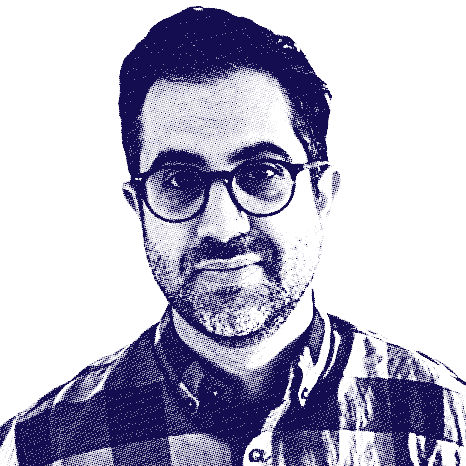
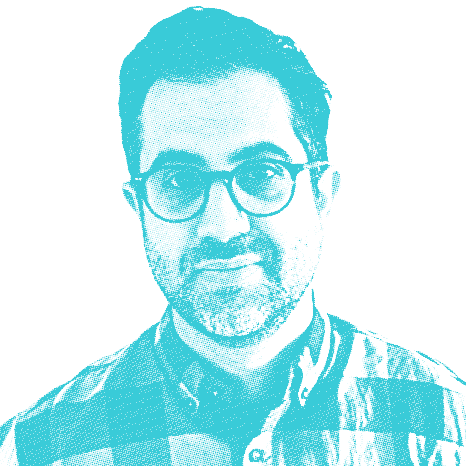
color

diff --git a/css/style-ga.css b/css/style-ga.css
@@ -6,10 +6,22 @@
     font-style: normal;
   }
   :root{
-    --ga_lapis:#336699;
-    --ga_turquoise: #35E9DD;
-    --ga_federal: #140D4F;
-    --ga_carolina:#86BBD8;
+    /*--ga_lapis:#0A8754;
+    --ga_federal: #140D4F;*/
+
+    --ga_rougeCorail:#FF595A;
+    --ga_bleuProfond: #001233;
+    --ga_turquoise: #39cbd8;
+    --ga_cassis: #1D1842;
+    --ga_sapin:#019b56;
+  
+
+
+    /*--ga_turquoise: #3D9BA3;*/
+
+
+    --ga_caro:#86BBD8;
+    --ga_charcoal: #2F4858;
 
     /*--ga_greenLight:#48aef3;*/
     --ga_greenLight:#EDFDFC;
@@ -26,10 +38,10 @@
     font-family: "Lato", sans-serif;
     font-size: 16px;
     line-height: 26px;
-    color: var(--ga_federal);
+    color: var(--ga_turquoise);
     font-weight: 300;
     letter-spacing: .05em;
-    background-color: var(--ga_greenLight);
+    background-color: #001233;
   }
 
   .container{
@@ -40,7 +52,7 @@
   
   ::-webkit-selection {
     color: var(--ga_white);
-    background: var(--ga_greenLight);
+    background: #EDFFEB;
   }
   
   ::-moz-selection {
@@ -97,6 +109,7 @@
     /* --------------HEADER-------------------*/
 
   .ga-intro {
+    font-family: 'Passion One', cursive;
     font-weight: bolder !important;
     font-size: 40px;
     line-height: 27px;
@@ -104,12 +117,12 @@
     margin-top: 1em;
     position: relative;
     padding-bottom: 30px;
-    color: var(--ga_federal);
+    color: var(--ga_sapin);
   }
 
   .ga-half {
     width: 100%;
-    background: var(--ga_greenLight);
+    background: var(--ga_bleuProfond);
   }
 
   #ga_img_id{
@@ -123,7 +136,7 @@
   }
 
   #ga_header {
-      margin-top: 0em;
+      margin-top: 3em;
       margin-bottom: 0em;
       /*background-color:var(--ga_federal);*/
   }
@@ -168,11 +181,11 @@
     font-size: 15px;
     text-transform: uppercase;
     letter-spacing: 1px;
-    color: var(--ga_federal);
+    color: var(--ga_turquoise);
     padding: 4px 10px;
   }
   #ga_header #ga_nav li a:hover {
-    color: var(--ga_green);
+    color: white;
   }
   #ga_header #ga_nav li::after {
     position: absolute;
@@ -190,10 +203,10 @@
     content: '';
   }
   #ga_header #ga_nav li.active a {
-    color: var(--ga_federal);
+    color: var(--ga_rougeCorail);
     /*background-color: var(--ga_selected);*/
     /*background-color: #35E9DD;*/
-    border-bottom: 4px solid var(--ga_lapis);
+    border-bottom: 4px solid var(--ga_rougeCorail);
     /*border-radius: 3px;*/
   }
   @media screen and (max-width: 768px) {
@@ -244,12 +257,13 @@
      font-size: 30px;
      line-height: 40px;
      display: inline-block;
+     color: var(--ga_rougeCorail);
    }
 
    .ga_btn_other_option {
     float: left;
     margin-right: 10px;
-    background-color: var(--ga_federal);
+    background-color: var(--ga_rougeCorail);
     color: white;
     border-radius: 5px;
     padding: 1em;
@@ -261,7 +275,7 @@
   }
 
   .ga_btn_other_option:hover{
-    background-color: var(--ga_lapis);
+    background-color: var(--ga_turquoise);
     color: white;
   }
 
@@ -270,7 +284,7 @@
 
   #ga_footer {
     padding: 1em 0;
-    background-color: var(--ga_lapis);
+    background-color:var(--ga_turquoise);
     color: white;
   }
   #ga_footer a {

diff --git a/index.html b/index.html
@@ -34,6 +34,11 @@
 	<!-- Bootstrap -->
 		<!--<link rel="stylesheet" href="css/bootstrap.css">-->
 	<link href="https://cdn.jsdelivr.net/npm/bootstrap@5.3.0/dist/css/bootstrap.min.css" rel="stylesheet" integrity="sha384-9ndCyUaIbzAi2FUVXJi0CjmCapSmO7SnpJef0486qhLnuZ2cdeRhO02iuK6FUUVM" crossorigin="anonymous">
+
+	<link rel="preconnect" href="https://fonts.googleapis.com">
+	<link rel="preconnect" href="https://fonts.gstatic.com" crossorigin>
+	<link href="https://fonts.googleapis.com/css2?family=Passion+One:wght@700&display=swap" rel="stylesheet">
+
 	<!-- Owl Carousel -->
 	<link rel="stylesheet" href="css/owl.carousel.min.css">
 	<link rel="stylesheet" href="css/owl.theme.default.min.css">
@@ -52,14 +57,12 @@
 		<header id="ga_header" role="banner">
 			
 			<!-- Logo -->
-			<div class="text-center">
+		<!--	<div class="text-center">
 				<a href="index.html">
-
-					<!--<img class="ga-logo" src="images/guillustrHonolulu.png" alt="Image">-->
-					<img class="ga-logo" src="images/GUILLUSTRR_TURQ.png" alt="Image">
-					<!--<img class="ga-logo" src="images/guillustrbLG.png" alt="Image">-->
+					<img class="ga-logo" src="images/guillustrrLOGO6.png" alt="Image">
 				</a>
 			</div>
+		-->
 			<!-- logo -->
 			
 			<!-- Mobile Toggle Menu Button -->
@@ -101,7 +104,7 @@
 							<div class="container-fluid">
 								<div class="row m-4">
 									<div class="col-md-3">
-										<img src="images/ID bkue.png" id="ga_img_id" alt="">
+										<img src="images/guillustrrLOGOsapin.png" id="ga_img_id" alt="">
 									</div>
 									<div class="col-md-8 col-md-push-1 col-sm-9 col-sm-push-1 p-5">
 										<div class="ga_section_title">
@@ -156,7 +159,7 @@
 				<div class="row">
 
 					<div class="col-4 col-md-3 col-xs-12 ga_footer_widget">
-						<img src="images/GUILLUSTRR_TURQ.png" alt="Image" class="ga-logo">
+						<img src="images/guillustrrLOGO5.png" alt="Image" class="ga-logo">
 					
 					</div>
 					
